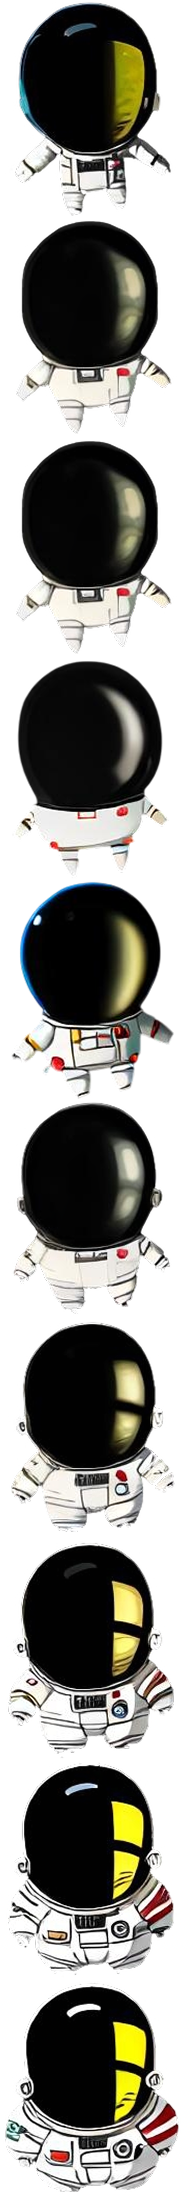
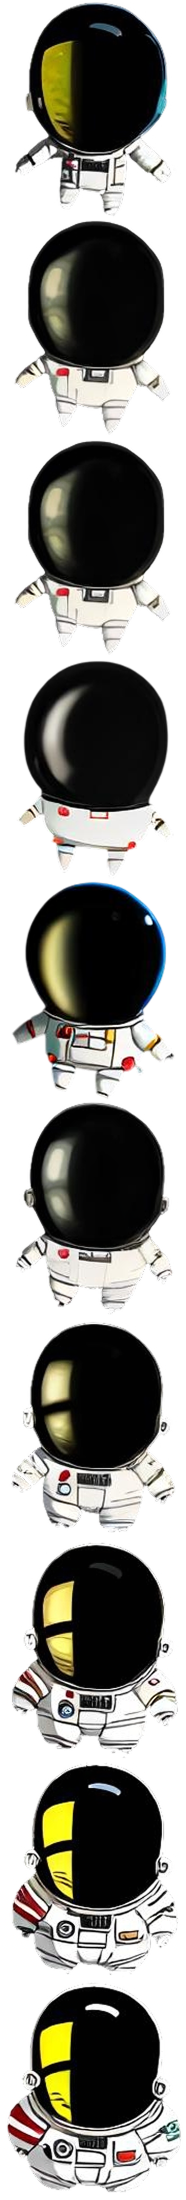
Отразил текстуру первой фазы

diff --git a/src/features/game/utils/player.ts b/src/features/game/utils/player.ts
@@ -46,7 +46,7 @@ export const getFrameSize = (
 export const frameSizes = [
   {
     frameWidth: 182,
-    frameHeight: 218,
+    frameHeight: 220,
   },
   {
     frameWidth: 258,
